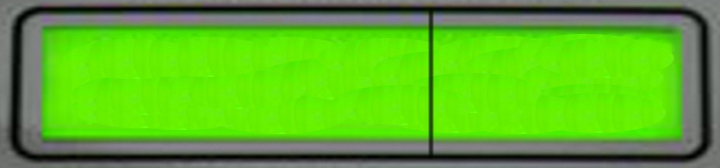
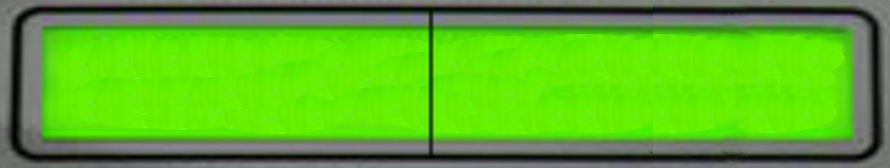
new display

diff --git a/remote-akkumatik.py b/remote-akkumatik.py
@@ -160,7 +160,7 @@ class akkumatik_display:
             gpst +=  'set yrange [*:*];\n'
             divisor = "1"
         else:
-            gpst +=  'set yrange [600:1700];\n'
+            gpst +=  'set yrange [600:1899];\n'
             divisor = str(self.anzahl_zellen[self.gewaehlter_ausgang])
 
         gpst += 'plot wfile using 2:($3/'+divisor+') with lines title "mVolt" lw 2 lc rgbcolor "#ff0000", \
@@ -480,13 +480,14 @@ class akkumatik_display:
 #Serial + output stuff{{{
 ##########################################
 
-    def output_data(self, output_tty, output):
+    def output_data(self, output_tty, output, output2):
         #terminal output
         #sys.stdout.write (output_tty)
         #sys.stdout.flush()
 
         #graphical output
         self.label.set_markup('<span foreground="#333333">'+ output + '</span>')
+        self.label2.set_markup('<span foreground="#339933">'+ output2 + '</span>')
         while gtk.events_pending():
             gtk.main_iteration()
 
@@ -528,8 +529,8 @@ class akkumatik_display:
                 ampere = "%imA" % (ampere)
 
             Ah = long(daten[4])/1000.0 #Ladungsmenge Ah
-            VersU = long(daten[5]) #Versorungsspannung mV
-            RimOhm = long(daten[6]) #akku-unnen mOhm
+            VersU = long(daten[5])/1000.0 #Versorungsspannung mV
+            RimOhm_BalDelta = long(daten[6]) #akku-unnen mOhm
             cBat = long(daten[7]) #Akkutemperatur
             tmp_zellen = long(daten[8]) #Zellenzahl / bei Stop -> 'Fehlercode'
             if tmp_zellen < 50:
@@ -540,9 +541,13 @@ class akkumatik_display:
                 self.button_start.set_sensitive(True)
                 self.button_stop.set_sensitive(False)
             else:
-                self.button_start.set_sensitive(False)
+                if phase == 10: #Pause
+                    self.button_start.set_sensitive(True)
+                else:
+                    self.button_start.set_sensitive(False)
                 self.button_stop.set_sensitive(True)
 
+            #TODO 'beim Formieren' also sonst immer 0? dann output2 anpassen
             zyklus = long(daten[10]) #Zyklus
             sp = long(daten[11]) #Aktive Akkuspeicher
 
@@ -627,14 +632,24 @@ class akkumatik_display:
                 zeit = zeit [:-3]
 
             #label print
-            RimOhm = "Ri:%03i" % (RimOhm)
+            RimOhm_BalDelta = "Ri:%03i" % (RimOhm_BalDelta)
             #TODO:  more elgegant...
             if len(daten) > 19:
-                RimOhm = "∆%2imV " % (balance_delta)
+                RimOhm_BalDelta = "∆%2imV " % (balance_delta)
 
-            output ="%s%s %s %s %s %2i°B \n%-7s   %+6.3fAh %ix%s %2i°K" % (ausgang, phasedesc, ladeV, zeit, RimOhm, cBat, ampere, Ah, self.anzahl_zellen[self.gewaehlter_ausgang], atyp, cKK)
+            output ="%s%s %s %s\n%-7s   %+6.3fAh" % (ausgang, phasedesc, ladeV, zeit, ampere, Ah)
 
-            self.output_data(output_tty, output)
+            output2 ="%ix%s %2i° %s Z:%1i/%i\n" % (self.anzahl_zellen[self.gewaehlter_ausgang], atyp, cBat, RimOhm_BalDelta, zyklus, self.zyklen[self.gewaehlter_ausgang])
+            output2 +="%s %s %s %s\n" % (prg, lart, stromw, stoppm)
+            output2 +="Kap:%imAh ILa:%imA IEn:%imA\n" % (self.kapazitaet[self.gewaehlter_ausgang], self.ladelimit[self.gewaehlter_ausgang], self.entladelimit[self.gewaehlter_ausgang])
+            output2 +="Menge:%imAh Ver-U:%5.2fV %2i°KK\n" % (self.menge[self.gewaehlter_ausgang], VersU, cKK)
+
+            self.output_data(output_tty, output, output2)
+
+        #self.kapazitaet[self.gewaehlter_ausgang]
+        #self.ladelimit[self.gewaehlter_ausgang]
+        #self.entladelimit[self.gewaehlter_ausgang]
+        #self.menge[self.gewaehlter_ausgang]
 
         return True
 
@@ -658,7 +673,7 @@ class akkumatik_display:
         self.LADEART = ["Konst", "Puls", "Reflex"]
         self.STROMWAHL = ["Auto", "Limit", "Fest", "Ext. Wiederstand"]
         self.STOPPMETHODE = ["Lademenge", "Gradient", "Delta-Peak-1", "Delta-Peak-2", "Delta-Peak-3"]
-        self.FEHLERCODE = [ "Akku Stop", "Akku Voll", "Akku Leer", "", "Fehler Timeout", "Fehler Lade-Menge", "Fehler Akku zu Heiss", "Fehler Versorgungsspannung", "Fehler Akkuspannung,", "Fehler Zellenspannung,", "Fehler Alarmeingang", "Fehler Stromregler", "Fehler Polung/Kurzschluss", "Fehler Regelfenster", "Fehler Messfenster", "Fehler Temperatur", "Fehler Tempsens", "Fehler Hardware"]
+        self.FEHLERCODE = [ "Akku Stop", "Akku Voll", "Akku Leer", "", "Fehler Timeout", "Fehler Lade-Menge", "Fehler Akku zu Heiss", "Fehler Versorgungsspannung", "Fehler Akkuspannung", "Fehler Zellenspannung", "Fehler Alarmeingang", "Fehler Stromregler", "Fehler Polung/Kurzschluss", "Fehler Regelfenster", "Fehler Messfenster", "Fehler Temperatur", "Fehler Tempsens", "Fehler Hardware"]
         self.LIPORGB = ["3399ff", "55ff00", "ff9922", "3311cc", "123456", "ff0000", "3388cc", "cc8833", "88cc33", "ffff00", "ff00ff", "00ffff"]
 
         ##########################################
@@ -676,6 +691,7 @@ class akkumatik_display:
         #     ^^^^ (Was jetzt auch der Fal ist......)
         #
         # wird ueberschrieben vom laufenden programm
+        # TODO not string?
         self.atyp = [0,0,0]
         self.prg = [0,0,0]
         self.lart = [0,0,0]
@@ -996,13 +1012,13 @@ class akkumatik_display:
 
         self.window = gtk.Window(gtk.WINDOW_TOPLEVEL)
         self.window.set_title('Akkumatic Remote Display')
-        self.window.set_size_request(852,168)
-        self.window.set_default_size(852,168)
+        self.window.set_size_request(1006,168)
+        self.window.set_default_size(1006,168)
         self.window.set_position(gtk.WIN_POS_CENTER)
 
         self.window.connect("delete_event", delete_event)
         self.window.connect("destroy", destroy)
-        self.window.set_border_width(10)
+        self.window.set_border_width(8)
 
         # overall hbox
         hbox = gtk.HBox()
@@ -1013,14 +1029,26 @@ class akkumatik_display:
         self.label = gtk.Label()
         self.label.modify_font(pango.FontDescription("mono 22"))
 
-        hbox.pack_start(self.label, False, False, 50)
+        align = gtk.Alignment(0.0,0.0,0.0,0.0)
+        align.set_padding(36,0,48,0)
+        align.add(self.label)
+
+        hbox.pack_start(align, False, False, 0)
+
+        self.label2 = gtk.Label()
+        self.label2.modify_font(pango.FontDescription("mono 14"))
+
+        #self.label2.set_size_request(220,428)
+
+        align = gtk.Alignment(0.0,0.0,0.0,0.0)
+        align.set_padding(26,0,22,0)
+        align.add(self.label2)
+        hbox.pack_start(align, False, False, 0)
+        #hbox.pack_start(self.label2, False, False, 20)
 
         #vbox for buttons
         vbox = gtk.VBox()
         hbox.pack_end(vbox, False, False, 0)
-
-        #label_ausgang = gtk.Label("<1 Ausgang 2> "+str(self.gewaehlter_ausgang))
-        #vbox.pack_start(label_ausgang, False, True, 0)
 
         # hbox for radios
         hbox = gtk.HBox()
